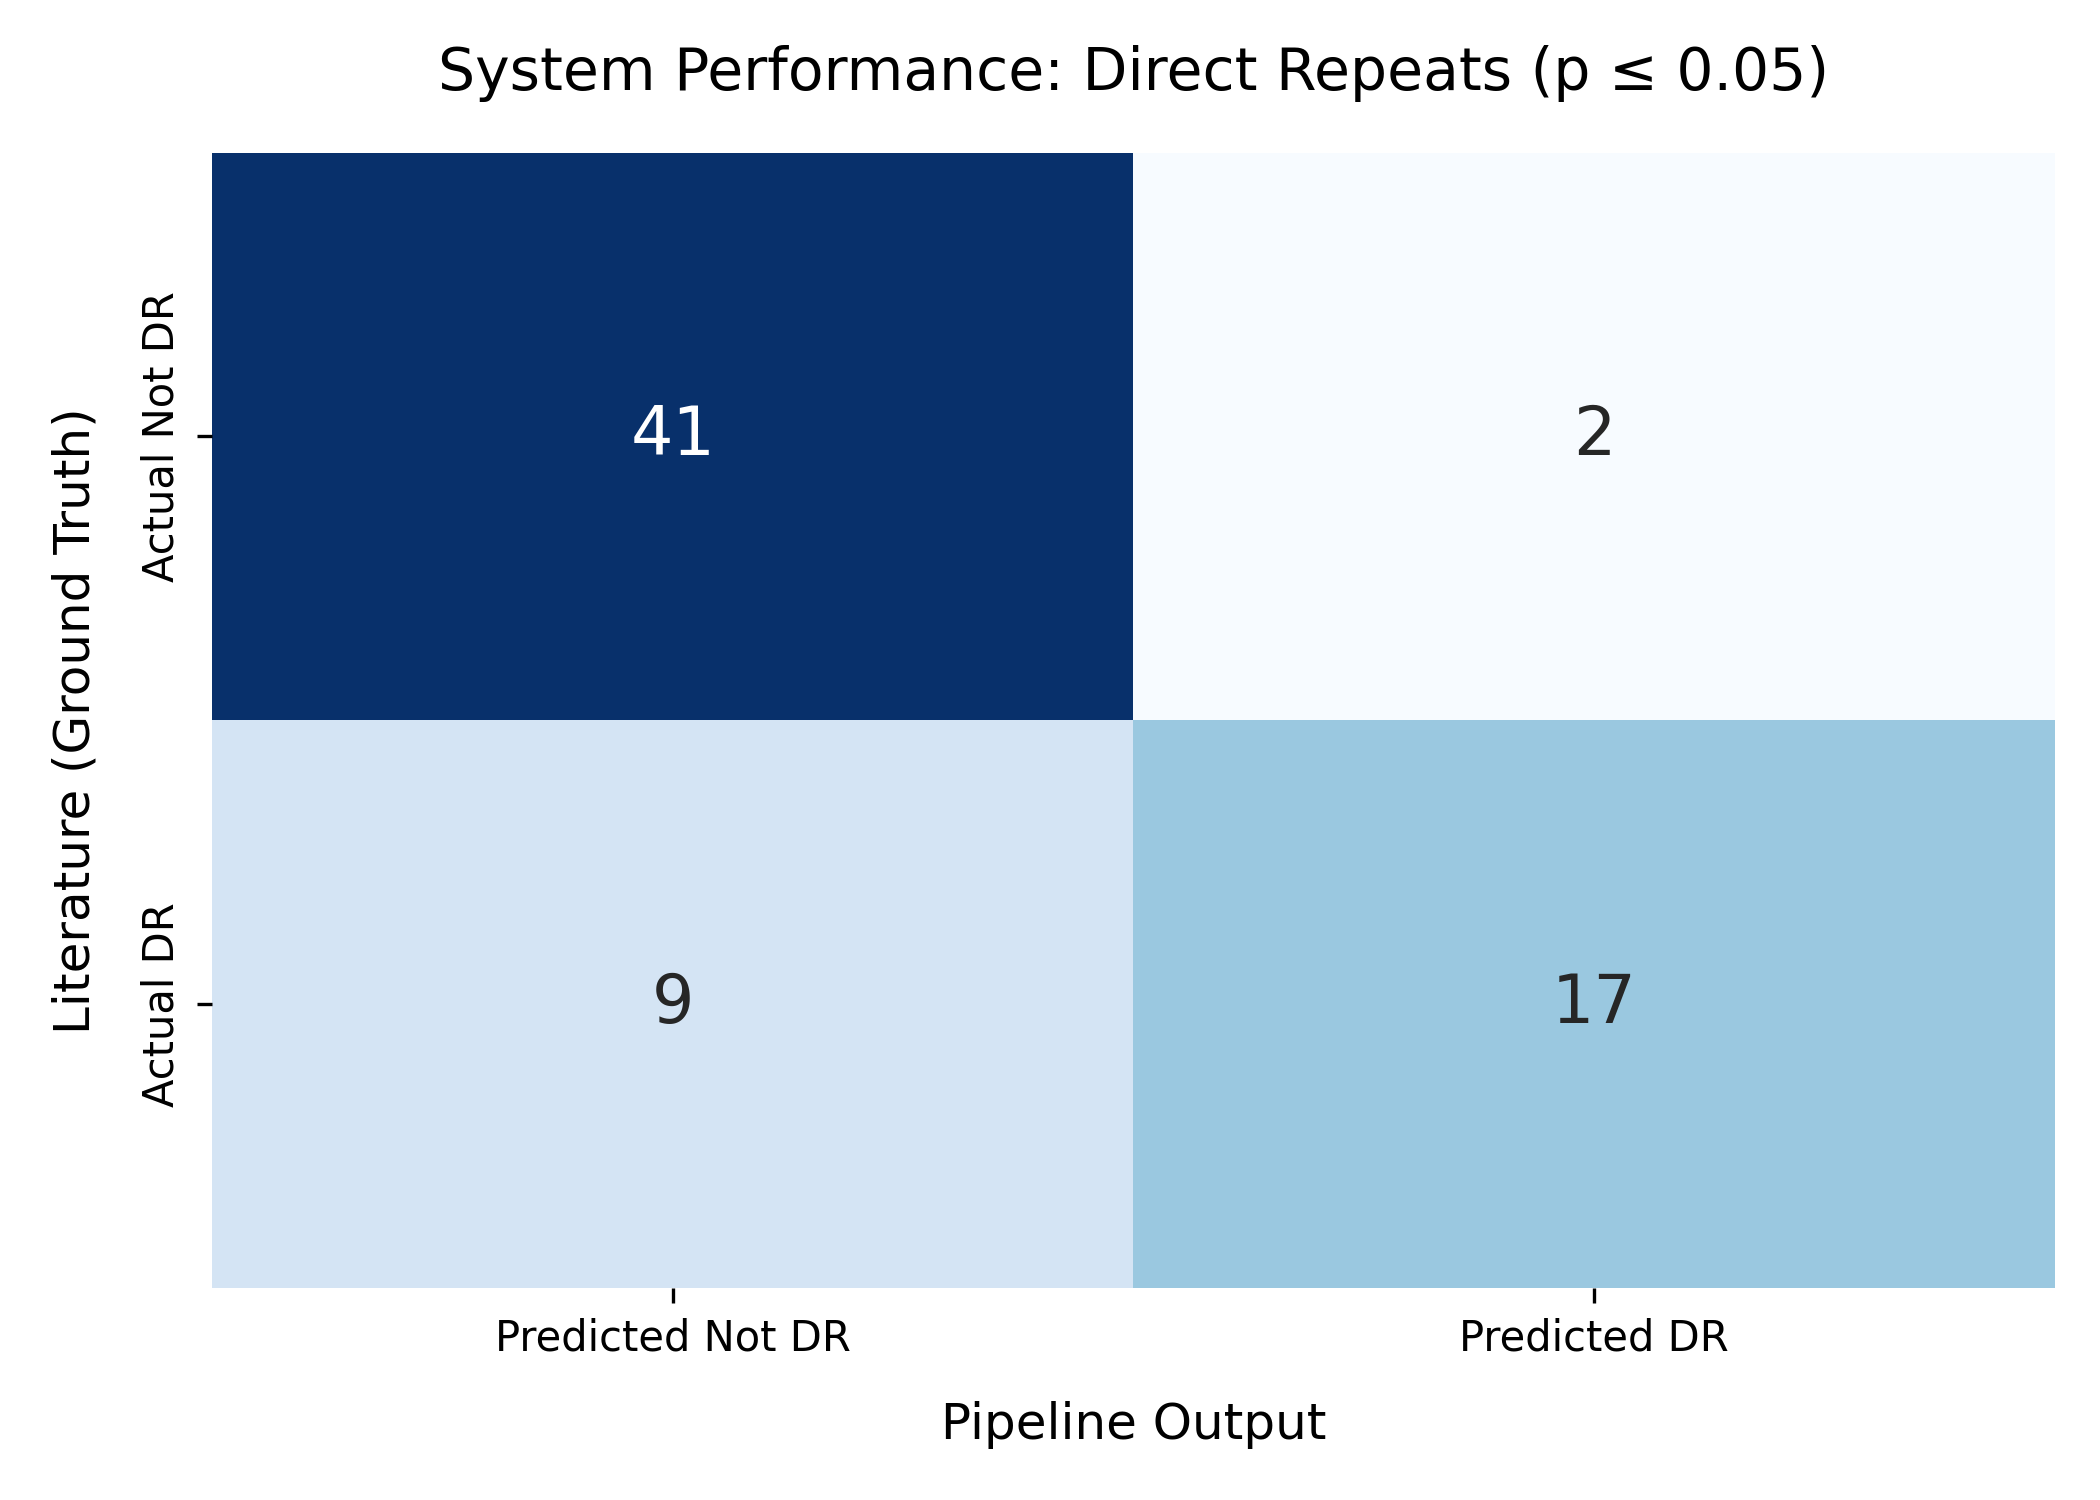
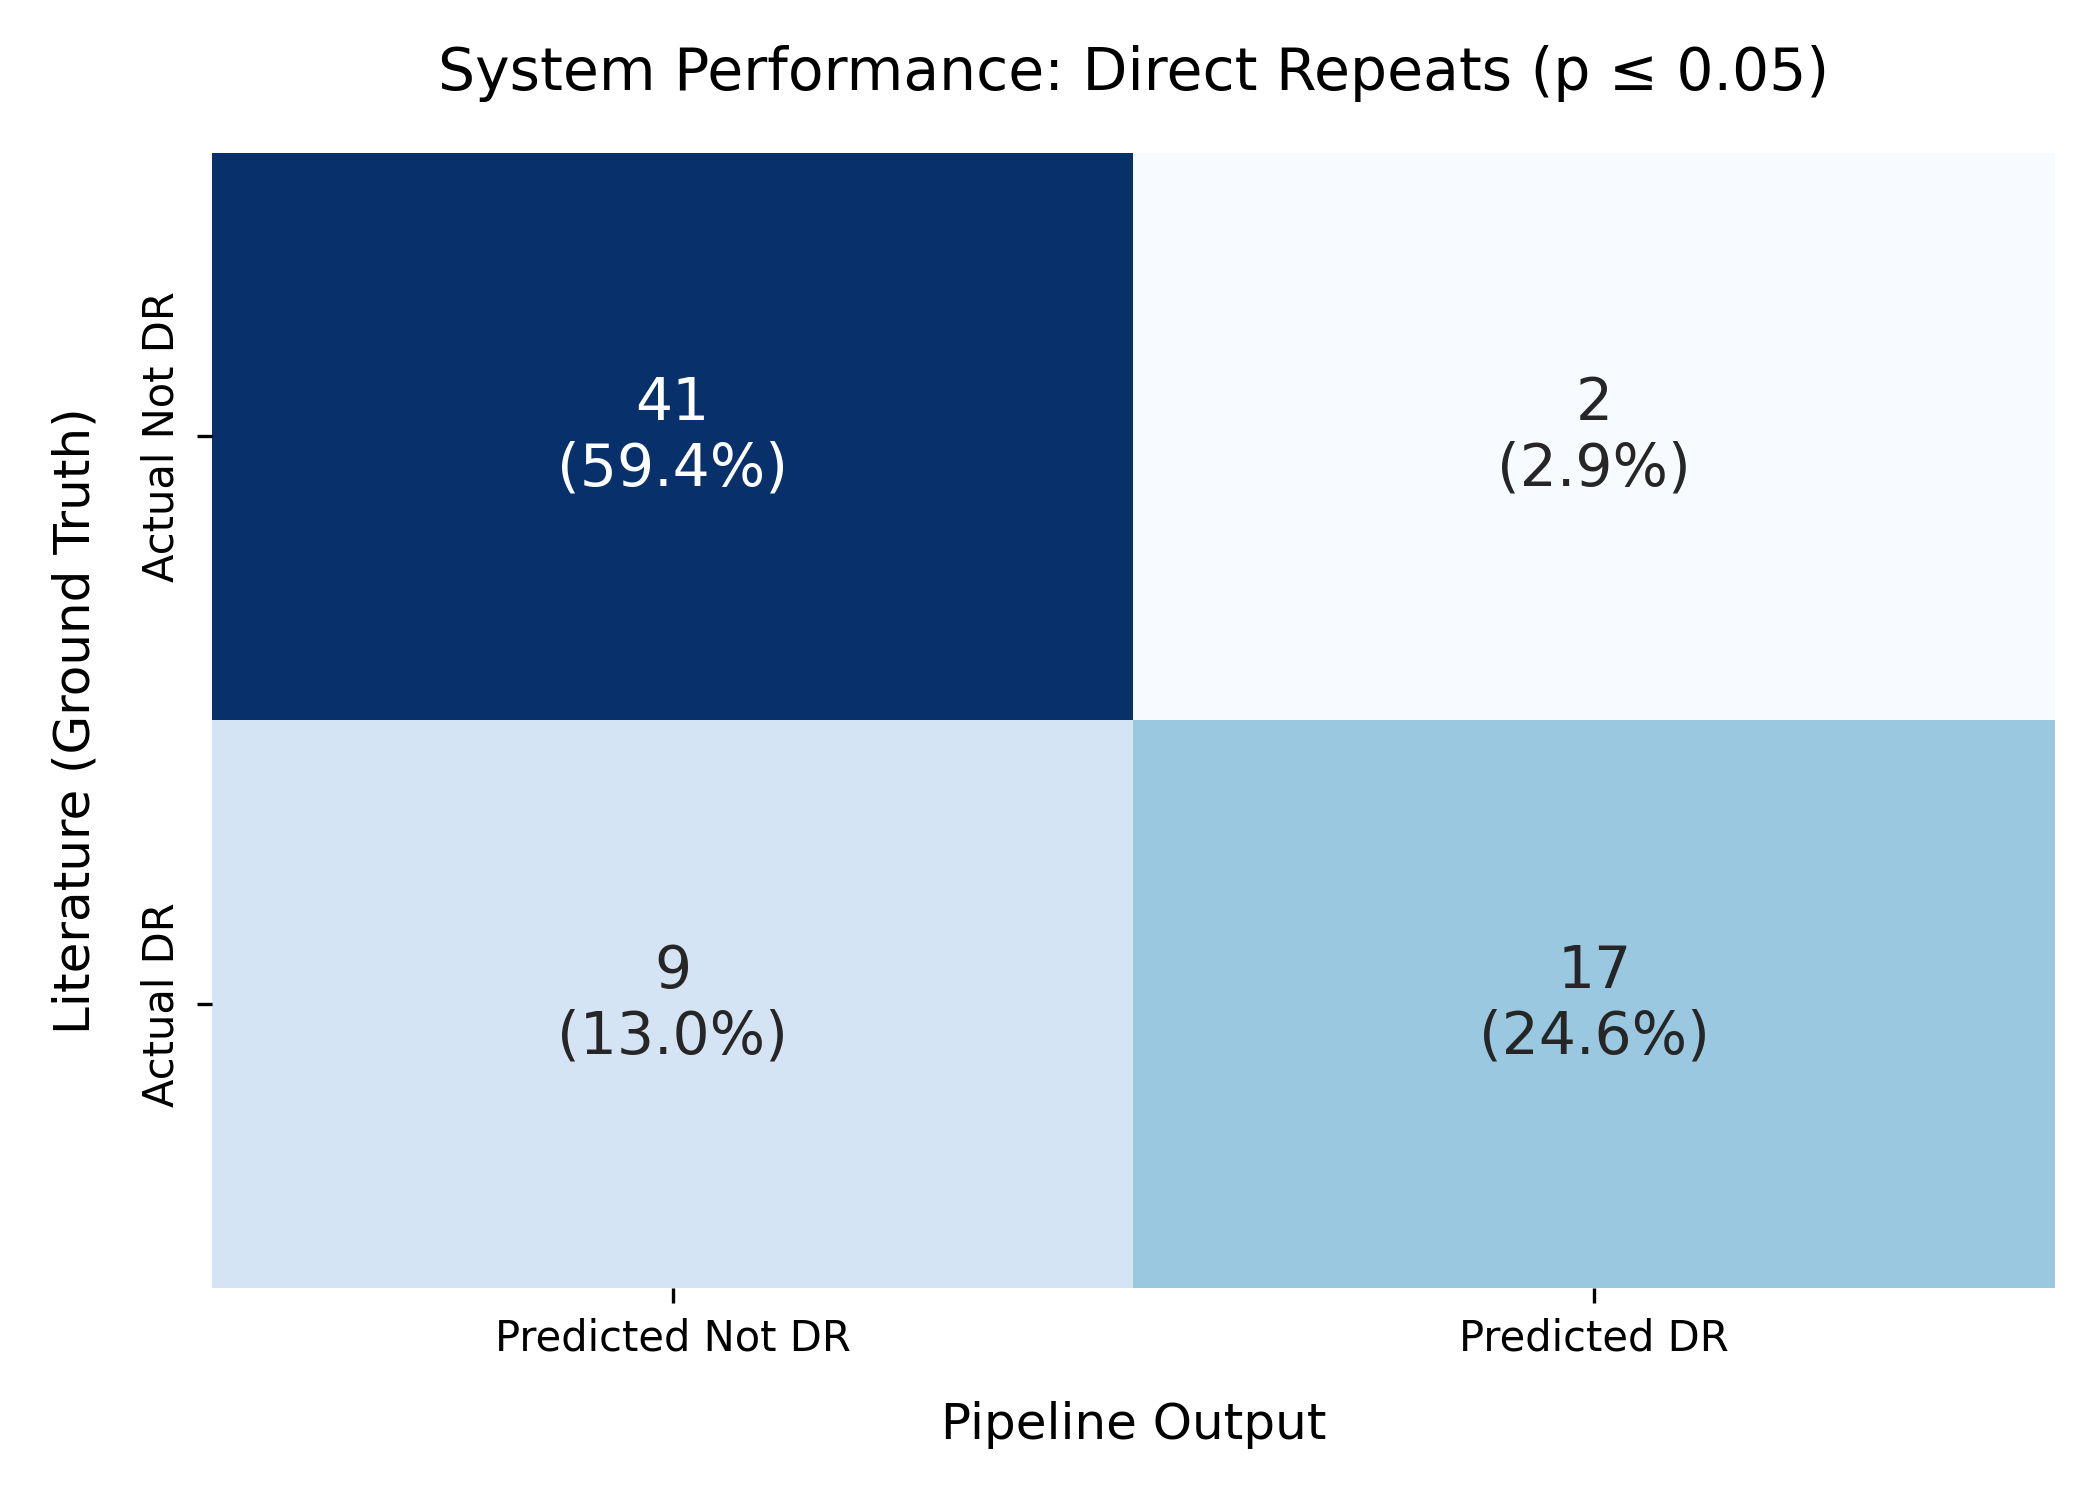
adding percentage calculations on confusion matrix

diff --git a/MAYMOTIF-Reporting.py b/MAYMOTIF-Reporting.py
@@ -764,7 +764,8 @@ print(f"System significance matrix saved to {LABEL}_system_significance_matrix.x
 
 def plot_confusion_matrix(df, eval_col, title, filename, target_class="DR"):
     """
-    Parses the 'TP', 'FP', 'TN', 'FN' strings into a 2x2 matrix and plots it.
+    Parses the 'TP', 'FP', 'TN', 'FN' strings into a 2x2 matrix and plots it,
+    annotating each cell with both the raw count and the percentage of the total.
     """
     # 1. Safely extract counts (defaulting to 0 if a category doesn't exist)
     counts = df[eval_col].value_counts()
@@ -774,27 +775,30 @@ def plot_confusion_matrix(df, eval_col, title, filename, target_class="DR"):
     fn = counts.get('FN', 0)
     
     # 2. Build the 2x2 matrix
-    # Layout:
-    #                 Predicted Negative | Predicted Positive
-    # Actual Negative        TN          |        FP
-    # Actual Positive        FN          |        TP
     cm = np.array([[tn, fp], 
                    [fn, tp]])
+                   
+    # 3. Calculate percentages and create custom string annotations
+    total = np.sum(cm)
+    annot_labels = np.empty_like(cm, dtype=object)
+    for i in range(2):
+        for j in range(2):
+            count = cm[i, j]
+            pct = (count / total * 100) if total > 0 else 0
+            annot_labels[i, j] = f"{count}\n({pct:.1f}%)"
     
-    # 3. Set up labels
+    # 4. Set up labels
     xticklabels = [f'Predicted Not {target_class}', f'Predicted {target_class}']
     yticklabels = [f'Actual Not {target_class}', f'Actual {target_class}']
     
-    # 4. Plotting
+    # 5. Plotting
     plt.figure(figsize=(7, 5))
-    
-    # Using a blue color map for DR, and red for IR to match your ROC curves
     cmap = "Blues" if target_class == "DR" else "Reds"
     
-    # Annotate with the numbers, formatted as integers ('d')
-    ax = sns.heatmap(cm, annot=True, fmt='d', cmap=cmap, 
+    # Note: fmt='' is required when passing custom string arrays to annot
+    ax = sns.heatmap(cm, annot=annot_labels, fmt='', cmap=cmap, 
                      xticklabels=xticklabels, yticklabels=yticklabels,
-                     cbar=False, annot_kws={"size": 16})
+                     cbar=False, annot_kws={"size": 14})
     
     # Formatting tweaks
     plt.title(title, fontsize=14, pad=15)
@@ -826,7 +830,6 @@ plot_confusion_matrix(
 )
 
 print("All confusion matrices generated successfully!")
-
 
 
 
